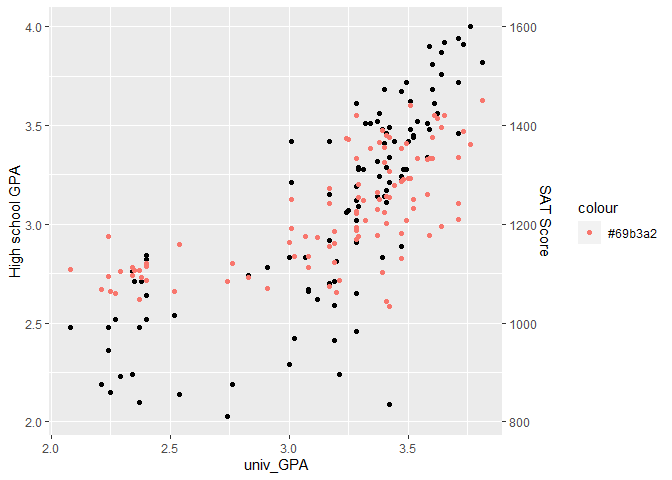
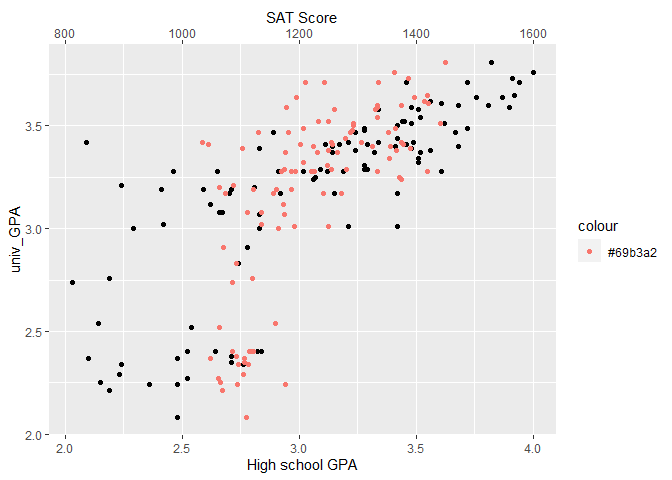
c 10 revisions

diff --git a/challenges/c10-sat-assignment.md b/challenges/c10-sat-assignment.md
@@ -286,14 +286,30 @@ df_composite
 ## TODO:
 coef <- 400
 
+# df_composite %>%
+#  
+#   ggplot() +
+#     geom_point(aes(x = univ_GPA, y = high_GPA))+
+#     geom_point(aes(x = univ_GPA, y = both_SAT/coef, color = "#69b3a2")) +
+#    
+#     # Custom the Y scales:
+#     scale_y_continuous(
+#      
+#       # Features of the first axis
+#       name = "High school GPA",
+#      
+#       # Add a second axis and specify its features
+#       sec.axis = sec_axis( trans = ~.*coef, name = "SAT Score")
+#     )
+
 df_composite %>%
  
   ggplot() +
-    geom_point(aes(x = univ_GPA, y = high_GPA))+
-    geom_point(aes(x = univ_GPA, y = both_SAT/coef, color = "#69b3a2")) +
+    geom_point(aes(x = high_GPA, y = univ_GPA))+
+    geom_point(aes(x = both_SAT/coef, y = univ_GPA, color = "#69b3a2")) +
    
     # Custom the Y scales:
-    scale_y_continuous(
+    scale_x_continuous(
      
       # Features of the first axis
       name = "High school GPA",
@@ -417,8 +433,10 @@ cor.test(x = x2, y = y)
   - both
 - Which of `high_GPA` and `both_SAT` seems to be more strongly
   correlated with `univ_GPA`?
-  - high_GPA has a stronger correlation, approximately 0.78, according
-    to corr.test
+  - high_GPA appears to have a stronger correlation, approximately 0.78
+    according to corr.test, but the lower bound of its confidence
+    interval overlaps with the upper bound of both_SATs confidence
+    interval so we can not say for certain which is higher.
 - How do the results here compare with the visual you created in q2?
   - they seem a bit higher than I was expecting but generally in line
     with what I thought
@@ -453,7 +471,7 @@ bootstraps(df_composite, 1000, apparent = TRUE) %>%
     ## # A tibble: 1 × 6
     ##   term  .lower .estimate .upper .alpha .method   
     ##   <chr>  <dbl>     <dbl>  <dbl>  <dbl> <chr>     
-    ## 1 corr   0.692     0.780  0.851   0.05 percentile
+    ## 1 corr   0.694     0.780  0.852   0.05 percentile
 
 **Observations**:
 
@@ -590,8 +608,8 @@ rsquare(fit_basic, df_validate)
 - What is the confidence interval on the coefficient of `both_SAT`? Is
   this coefficient significantly different from zero?
   - the confidence interval is between approximately 0.0017 and 0.0034,
-    the coefficient is approximately 0.0025 which is relatively close to
-    zero.
+    the coefficient is approximately 0.0025 which is significantly
+    different from zero.
 - By itself, how well does `both_SAT` predict `univ_GPA`?
   - It doesn’t do a very good job. The r squared value with the training
     data is around 0.45 and the validation data is around 0.54.
@@ -739,11 +757,12 @@ rsquare(fit_highgpa, df_validate)
   including `high_GPA` as a predictor?? Is this coefficient
   significantly different from zero?
   - the confidence interval is between approximately -0.00067 and
-    0.00174, the coefficient is approximately 0.00053 which is much
-    closer to zero than even the first model.
+    0.00174, the coefficient is approximately 0.00053 which is not
+    significantly different from zero.
 - How do the hypothesis test results compare with the results in q6?
-  - high_GPA firmly refutes our null hypothesis while the coefficient
-    for both_SAT gets even closer to the null hypothesis.
+  - high_GPA firmly refutes our null hypothesis while the confidence
+    interval for both_SAT includes zero and fails to refute the null
+    hypothesis.
 
 ## Synthesize
 
